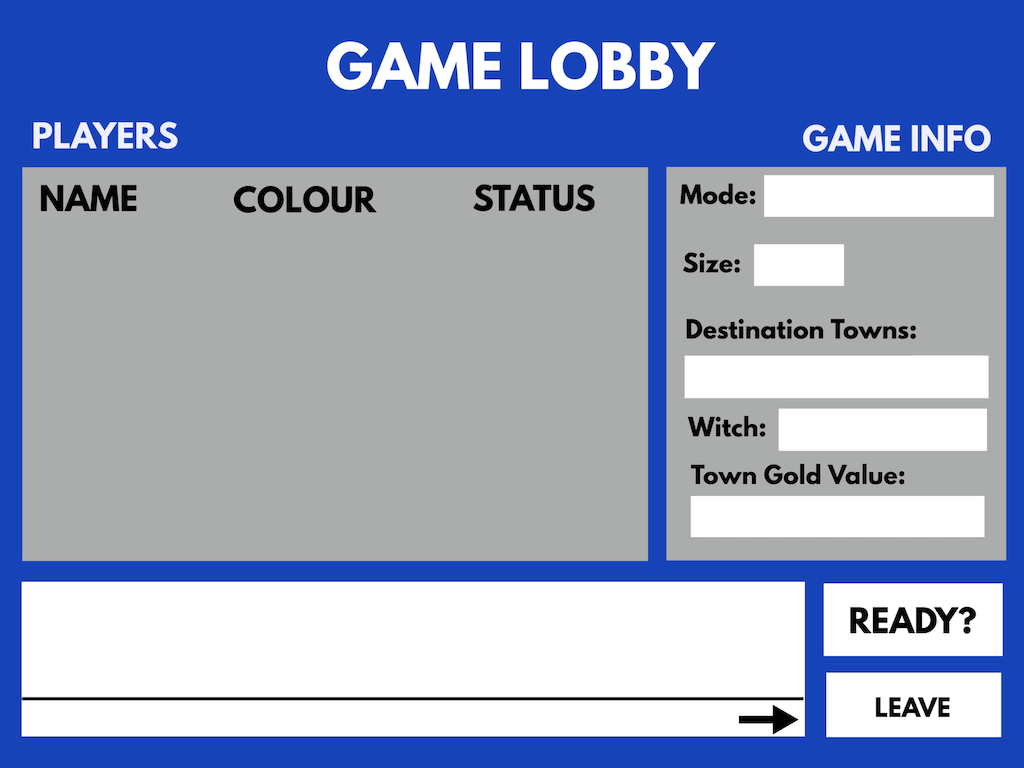
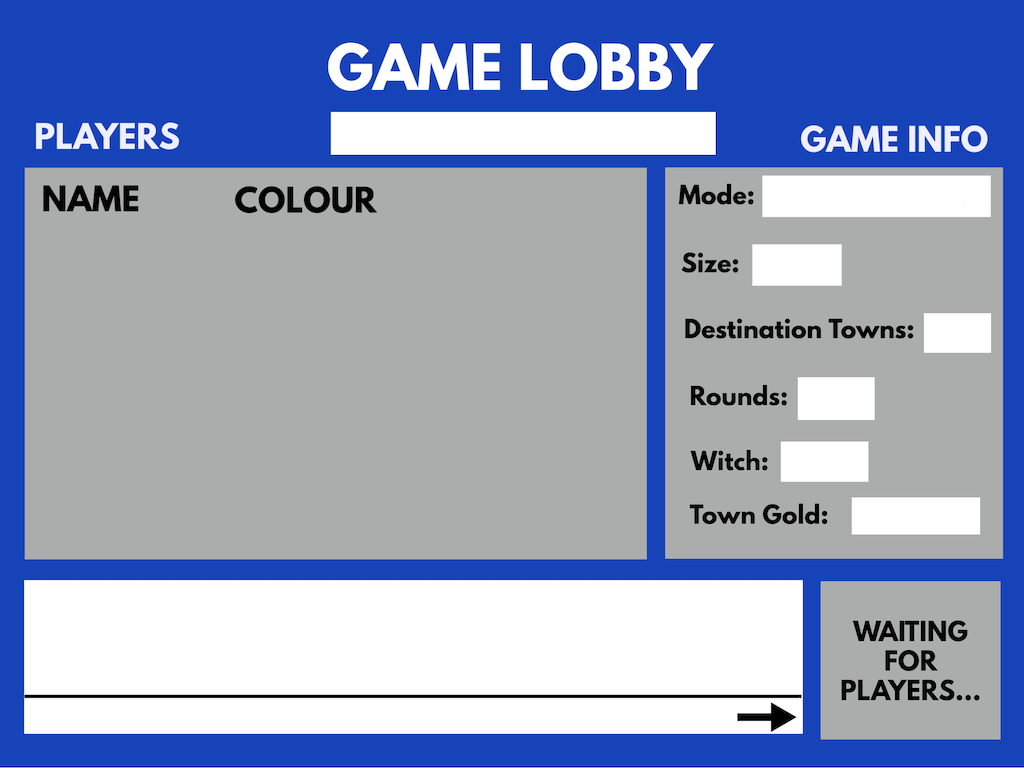
new launch button

Changed region(s): [[0.0, 0.0312, 1.0, 0.9688], [0.0312, 0.1562, 0.1875, 0.2812], [0.2188, 0.25, 0.375, 0.2812]]

diff --git a/client/clientsrc/ClientMain.java b/client/clientsrc/ClientMain.java
@@ -64,12 +64,10 @@ public class ClientMain {
     private static MinuetoImage purpleBoppel;
     private static MinuetoImage lobbyElfenlandBackground;
     private static MinuetoImage lobbyElfengoldBackground;
-    private static MinuetoImage lobbyElfenlandCreatorBackground;
-    private static MinuetoImage lobbyElfengoldCreatorBackground;
     static MinuetoImage readyGreen;
     static MinuetoImage readyWhite;
     static MinuetoImage startButton;
-    static MinuetoImage greyStartButton;
+    public static MinuetoImage waitingForLaunch;
     static MinuetoFont fontArial22Bold;
     static MinuetoRectangle modeDropdownRectangle;
     static MinuetoRectangle destinationTownDropdownRectangle;
@@ -811,23 +809,21 @@ public class ClientMain {
                         Mode currentMode = game.getMode();
                         // switch backgrounds depending on the game mode
                         if (currentMode.equals(Mode.ELFENLAND)) {
-                            gui.currentBackground = GUI.Screen.LOBBYELFENLANDCREATOR;
-                            gui.window.draw(lobbyElfenlandCreatorBackground, 0, 0);
-                            gui.window.draw(greyStartButton, 822, 580);
+                            gui.currentBackground = GUI.Screen.LOBBYELFENLAND;
+                            gui.window.draw(lobbyElfenlandBackground, 0, 0);
                             gui.window.render();
                             // wait for enough players to join
                             //ACTION_MANAGER.waitForPlayersAsCreator();
                             // we arrive here if the session is launchable: then display the launch button
-                            lobbyElfenlandCreatorBackground.draw(startButton, 822, 580);
+                            lobbyElfenlandBackground.draw(startButton, 822, 580);
                         } else if (currentMode.equals(Mode.ELFENGOLD)) {
-                            gui.currentBackground = GUI.Screen.LOBBYELFENGOLDCREATOR;
-                            gui.window.draw(lobbyElfengoldCreatorBackground, 0, 0);
-                            gui.window.draw(greyStartButton, 822, 580);
+                            gui.currentBackground = GUI.Screen.LOBBYELFENGOLD;
+                            gui.window.draw(lobbyElfengoldBackground, 0, 0);
                             gui.window.render();
                             // wait for enough players to join
                             ACTION_MANAGER.waitForPlayersAsCreator();
                             // we arrive here if the session is launchable: then display the launch button
-                            lobbyElfengoldCreatorBackground.draw(startButton, 822, 580);
+                            lobbyElfengoldBackground.draw(startButton, 822, 580);
                         }
                         
                         
@@ -1029,12 +1025,10 @@ public class ClientMain {
             lobbyBackground = new MinuetoImageFile("images/open-lobbies.png");
             lobbyElfenlandBackground = new MinuetoImageFile("images/game-lobby-elfenland.png");
             lobbyElfengoldBackground = new MinuetoImageFile("images/game-lobby-elfengold.png");
-            lobbyElfenlandCreatorBackground = new MinuetoImageFile("images/game-lobby-elfenland-creator.png");
-            lobbyElfengoldCreatorBackground = new MinuetoImageFile("images/game-lobby-elfengold-creator.png");
             readyGreen = new MinuetoImageFile("images/ready-button-green.png");
             readyWhite = new MinuetoImageFile("images/ready-button-white.png");
             startButton = new MinuetoImageFile("images/blue-launch-button.png");
-            greyStartButton = new MinuetoImageFile("images/grey-launch-button.png");
+            waitingForLaunch = new MinuetoImageFile("images/waiting-for-launch.png");
             // Create Game
             createGameBackground = new MinuetoImageFile("images/create-game-elfenland.png");
             createGameBackgroundElfengold = new MinuetoImageFile("images/create-game-elfengold.png");
@@ -1240,16 +1234,7 @@ public class ClientMain {
                 while (elfenlandLobbyQueue.hasNext()) {
                     elfenlandLobbyQueue.handle();
                 }
-            } else if (gui.currentBackground == GUI.Screen.LOBBYELFENLANDCREATOR) {
-                gui.window.draw(lobbyElfenlandCreatorBackground, 0, 0);
-                while (elfenlandLobbyQueue.hasNext()) {
-                    elfenlandLobbyQueue.handle();
-                }
-            } else if (gui.currentBackground == GUI.Screen.LOBBYELFENGOLDCREATOR) {
-                gui.window.draw(lobbyElfengoldCreatorBackground, 0, 0);
-                while (elfenlandLobbyQueue.hasNext()) {
-                    elfenlandLobbyQueue.handle();
-                }
+
             } else if (gui.currentBackground == GUI.Screen.ELFENLAND) {
                 gui.window.draw(elfenlandImage, 0, 0);
                 
@@ -1425,6 +1410,8 @@ public class ClientMain {
         MinuetoText nameText = new MinuetoText(name, font, MinuetoColor.BLACK);
         Game game = currentSession.getGame();
         Mode currentMode = game.getMode();
+        String size = String.valueOf(game.getNumberOfPlayers());
+        MinuetoText sizeText = new MinuetoText(size, font, MinuetoColor.BLACK);
         boolean destinationEnabled = game.isDestinationTownEnabled();
         MinuetoText destText = null;
         if (destinationEnabled) {
@@ -1435,21 +1422,13 @@ public class ClientMain {
         MinuetoImage background = null;
         MinuetoText modeText = null;
         if (currentMode.equals(Mode.ELFENLAND)) {
-            if (currentUser.getName().equals(currentSession.getCreator())) {
-                background = lobbyElfenlandCreatorBackground;
-            } else {
-                background = lobbyElfenlandBackground;
-            }
+            background = lobbyElfenlandBackground;
             modeText = new MinuetoText("Elfenland", font, MinuetoColor.BLACK);
             int numberRounds = game.getNumberOfRounds();
             MinuetoText numRoundsText = new MinuetoText(String.valueOf(numberRounds), font, MinuetoColor.BLACK);
             background.draw(numRoundsText, 805, 415);
         } else if (currentMode.equals(Mode.ELFENGOLD)) {
-            if (currentUser.getName().equals(currentSession.getCreator())) {
-                background = lobbyElfengoldCreatorBackground;
-            } else {
-                background = lobbyElfengoldBackground;
-            }
+            background = lobbyElfengoldBackground;
             modeText = new MinuetoText("Elfengold", font, MinuetoColor.BLACK);
             boolean witchEnabled = game.isWitchEnabled();
             MinuetoText witchText = null;
@@ -1471,8 +1450,9 @@ public class ClientMain {
             background.draw(townText, 0, 0); // TODO: fix this
         }
         
-        background.draw(nameText, 0, 0); // TODO: fix this
+        background.draw(nameText, 430, 130); 
         background.draw(modeText, 770, 185);
+        background.draw(sizeText, 765, 255);
         background.draw(destText, 695, 365);
         
     }
@@ -1485,17 +1465,9 @@ public class ClientMain {
         Game game = currentSession.getGame();
         Mode currentMode = game.getMode();
         if (currentMode.equals(Mode.ELFENLAND)) {
-            if (currentUser.getName().equals(currentSession.getCreator())) {
-                background = lobbyElfenlandCreatorBackground;
-            } else {
-                background = lobbyElfenlandBackground;
-            }
+            background = lobbyElfenlandBackground;
         } else if (currentMode.equals(Mode.ELFENGOLD)) {
-            if (currentUser.getName().equals(currentSession.getCreator())) {
-                background = lobbyElfengoldCreatorBackground;
-            } else {
-                background = lobbyElfengoldBackground;
-            } 
+            background = lobbyElfengoldBackground;
         }
 
         int counter = 0; // how many users are displayed so far

diff --git a/client/clientsrc/ActionManager.java b/client/clientsrc/ActionManager.java
@@ -42,6 +42,10 @@ public class ActionManager {
                 if (actionIn.isValid()) {
                     actionIn.execute();
                 }
+                if (ClientMain.currentSession.isLaunchable()) {
+                    ClientMain.gui.window.draw(ClientMain.waitingForLaunch, 822, 580);
+                }
+                // show wait for launch image
                 // update gui
                 ClientMain.gui.window.render();
             }   

diff --git a/client/clientsrc/GUI.java b/client/clientsrc/GUI.java
@@ -11,9 +11,7 @@ public class GUI {
         CREATELOBBY,
         CHOOSEBOOT,
         LOBBYELFENLAND,
-        LOBBYELFENLANDCREATOR,
         LOBBYELFENGOLD,
-        LOBBYELFENGOLDCREATOR,
         ELFENLAND,
         ELFENGOLD
     }
